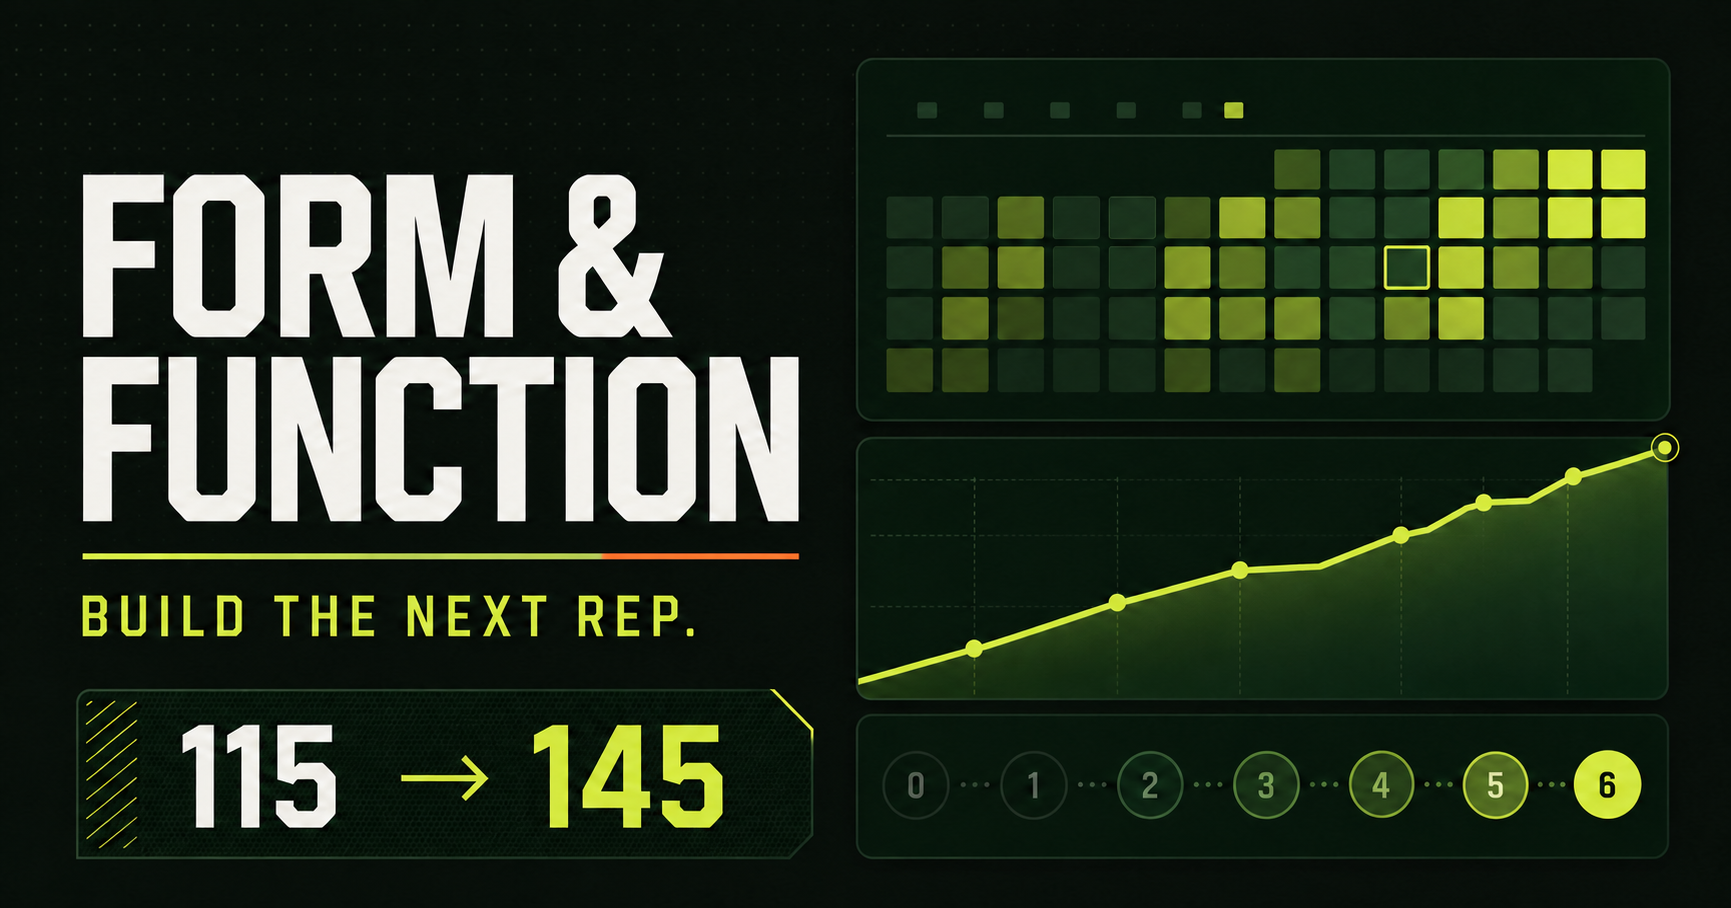
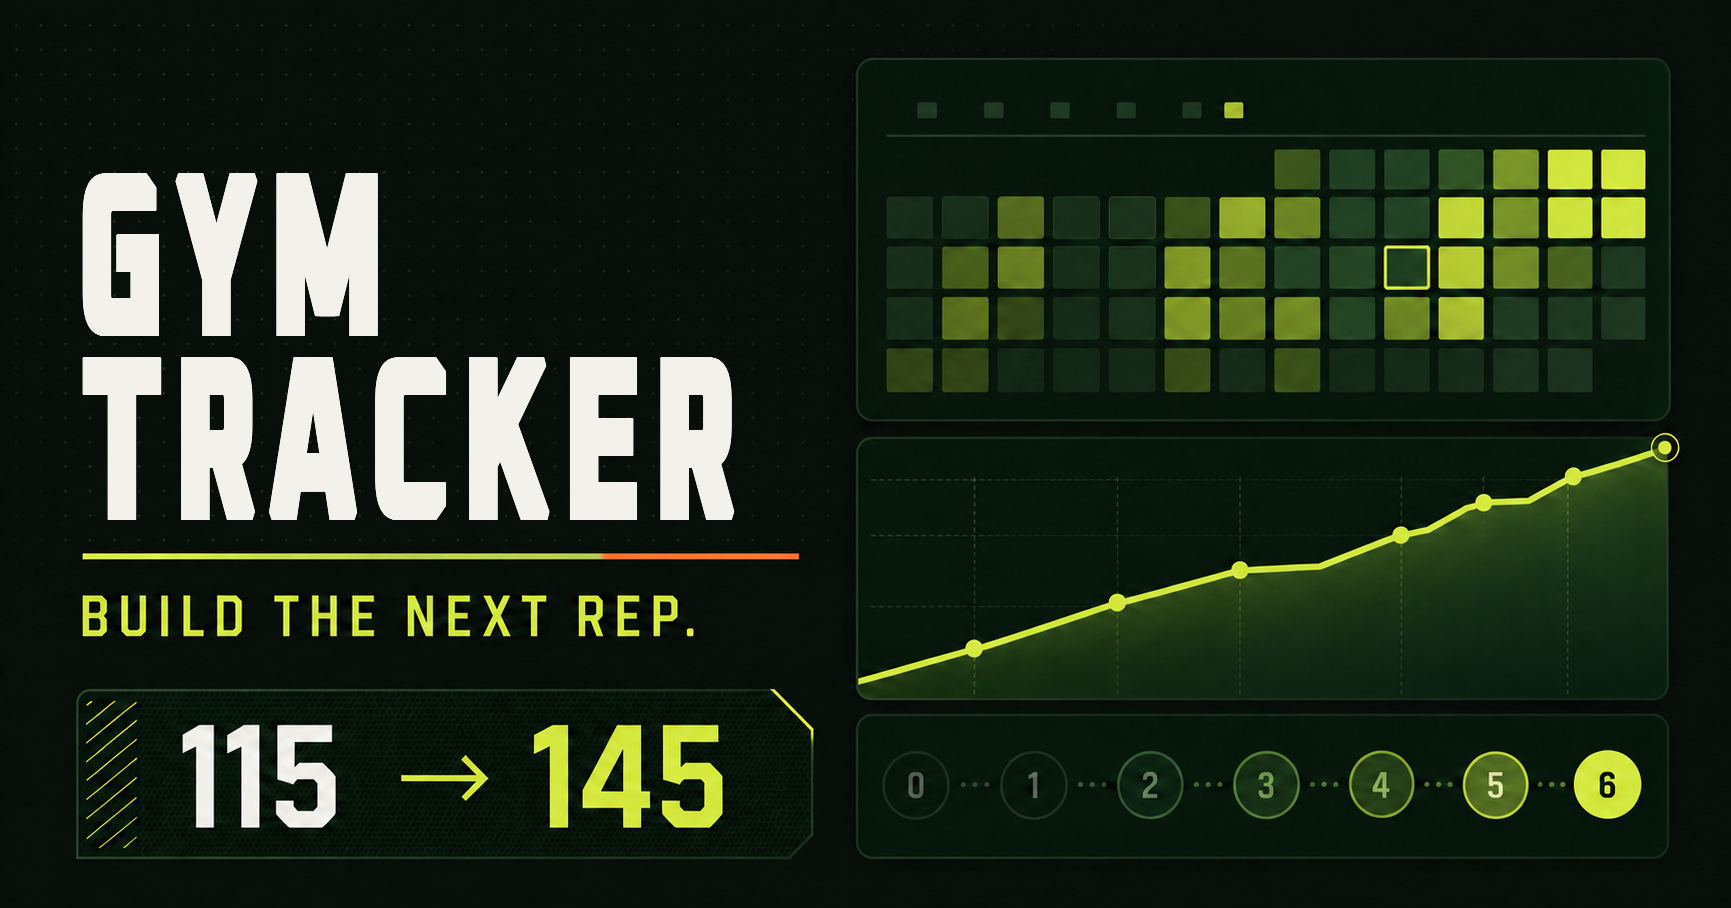
Rename Form & Function to Gym Tracker
The gym app's header, mark (now GT), page and tab titles, and social
preview tags use the new name, as do the landing page tile and the
README. The social card image keeps its artwork with the title
replaced by GYM TRACKER.

Changed region(s): [[0.0312, 0.185, 0.4679, 0.5859]]

diff --git a/gym/index.html b/gym/index.html
@@ -10,7 +10,7 @@
     />
     <meta property="og:type" content="website" />
     <meta property="og:url" content="https://mathewseng.github.io/gym/" />
-    <meta property="og:title" content="Form & Function — Build the next rep." />
+    <meta property="og:title" content="Gym Tracker — Build the next rep." />
     <meta
       property="og:description"
       content="A recovery-aware training calendar for workouts, progress, goals, nutrition, and better next-session decisions."
@@ -20,16 +20,16 @@
     <meta property="og:image:height" content="908" />
     <meta
       property="og:image:alt"
-      content="Form & Function training dashboard social card with calendar, progress chart, 0–6 readiness scale, and 115 to 145 milestone."
+      content="Gym Tracker training dashboard social card with calendar, progress chart, 0–6 readiness scale, and 115 to 145 milestone."
     />
     <meta name="twitter:card" content="summary_large_image" />
-    <meta name="twitter:title" content="Form & Function — Build the next rep." />
+    <meta name="twitter:title" content="Gym Tracker — Build the next rep." />
     <meta
       name="twitter:description"
       content="A recovery-aware training calendar for workouts, progress, goals, nutrition, and better next-session decisions."
     />
     <meta name="twitter:image" content="https://mathewseng.github.io/gym/og.png" />
-    <title>Form & Function — Training Dashboard</title>
+    <title>Gym Tracker — Training Dashboard</title>
   </head>
   <body>
     <div id="root"></div>

diff --git a/gym/src/components/AppShell.tsx b/gym/src/components/AppShell.tsx
@@ -53,11 +53,11 @@ function Brand({ onNavigate }: { onNavigate?: () => void } = {}) {
       onClick={onNavigate}
     >
       <span className="grid h-10 w-10 place-items-center rounded-2xl bg-[var(--accent)] text-sm font-black text-[var(--accent-ink)]">
-        F/
+        GT
       </span>
       <span>
         <strong className="block text-sm font-black tracking-[-0.02em]">
-          Form & Function
+          Gym Tracker
         </strong>
         <span className="block text-[0.67rem] font-bold tracking-wide text-[var(--muted)]">
           TRAINING LOG
@@ -97,7 +97,7 @@ export default function AppShell({ children }: PropsWithChildren) {
   }, [dark]);
 
   useEffect(() => {
-    document.title = `${pageNames[location.pathname] ?? "Form & Function"} — Form & Function`;
+    document.title = `${pageNames[location.pathname] ?? "Gym Tracker"} — Gym Tracker`;
     window.requestAnimationFrame(() => mainRef.current?.focus({ preventScroll: true }));
   }, [location.pathname]);
 
@@ -205,7 +205,7 @@ export default function AppShell({ children }: PropsWithChildren) {
             <div className="hidden lg:block">
               <p className="eyebrow">Personal training system</p>
               <p className="mt-0.5 text-sm font-extrabold">
-                {pageNames[location.pathname] ?? "Form & Function"}
+                {pageNames[location.pathname] ?? "Gym Tracker"}
               </p>
             </div>
             <div className="flex items-center gap-2">

diff --git a/index.html b/index.html
@@ -125,7 +125,7 @@
             <a class="tile" href="/gym/" style="--i: 4; --accent: #8ab4ff; --accent-2: #8fd9b6">
               <div class="tile-art" aria-hidden="true"><div class="art-bars"><span style="--h: 32%; --c: 0"></span><span style="--h: 48%; --c: 1"></span><span style="--h: 42%; --c: 2"></span><span style="--h: 68%; --c: 3"></span><span style="--h: 58%; --c: 4"></span><span style="--h: 82%; --c: 5"></span><span style="--h: 72%; --c: 6"></span><span style="--h: 94%; --c: 7"></span></div></div>
               <div>
-                <h3>Form &amp; Function</h3>
+                <h3>Gym Tracker</h3>
                 <p>Recovery-aware training calendar with workout history, progress charts, goals, nutrition, and local export.</p>
               </div>
               <div class="tile-foot">

diff --git a/README.md b/README.md
@@ -7,7 +7,7 @@ Static projects published at <https://mathewseng.github.io>. Every folder path i
 | Path | What it is |
 | --- | --- |
 | `index.html` | Landing page listing every top-level project |
-| `gym/` | Form & Function training app (Vite + React; the only page with a build step) |
+| `gym/` | Gym Tracker training app (Vite + React; the only page with a build step) |
 | `cards/` | Card Table Workshop |
 | `microtonal-lab/` | Tuning explorer and browser instrument |
 | `ofc/` | OFC hub: `play/`, `fantasyland-trainer/`, `fantasyland-ev/`, `fantasyland-report/` |

diff --git a/gym/CHANGELOG.md b/gym/CHANGELOG.md
@@ -2,6 +2,14 @@
 
 All notable changes to the `/gym` project are recorded here.
 
+## 2026-09-26 — Rename to Gym Tracker
+
+### Changed
+
+- Renamed the app from Form & Function to Gym Tracker in the page title, header, browser tab titles, and social preview tags.
+- Changed the header mark from F/ to GT.
+- Replaced the title on the social card image (`public/og.png`) with GYM TRACKER; the rest of the card is unchanged.
+
 ## 2026-09-25 — September 21 Push and September 22 Pull Workouts
 
 ### Added
